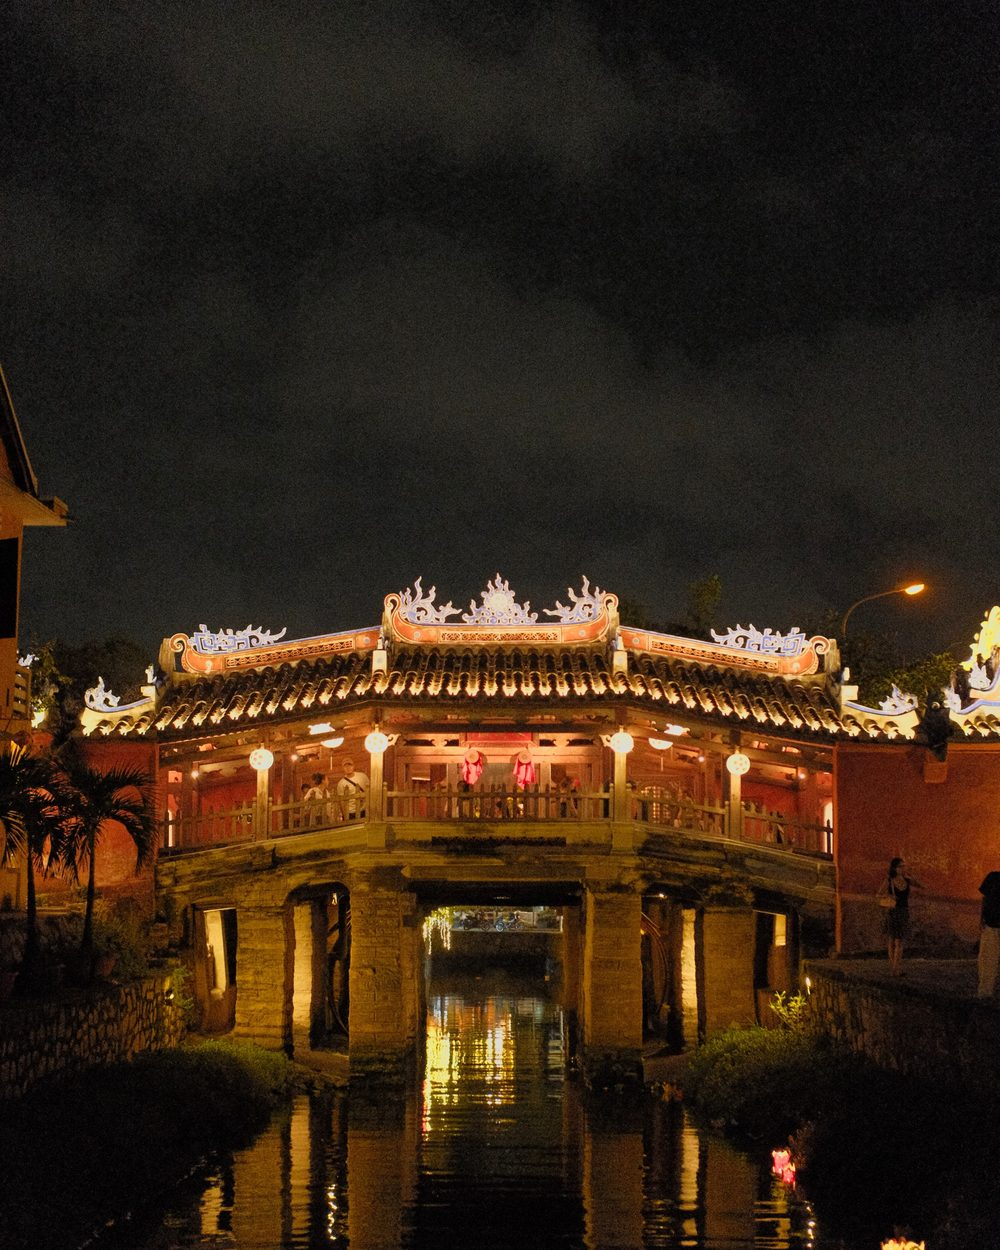
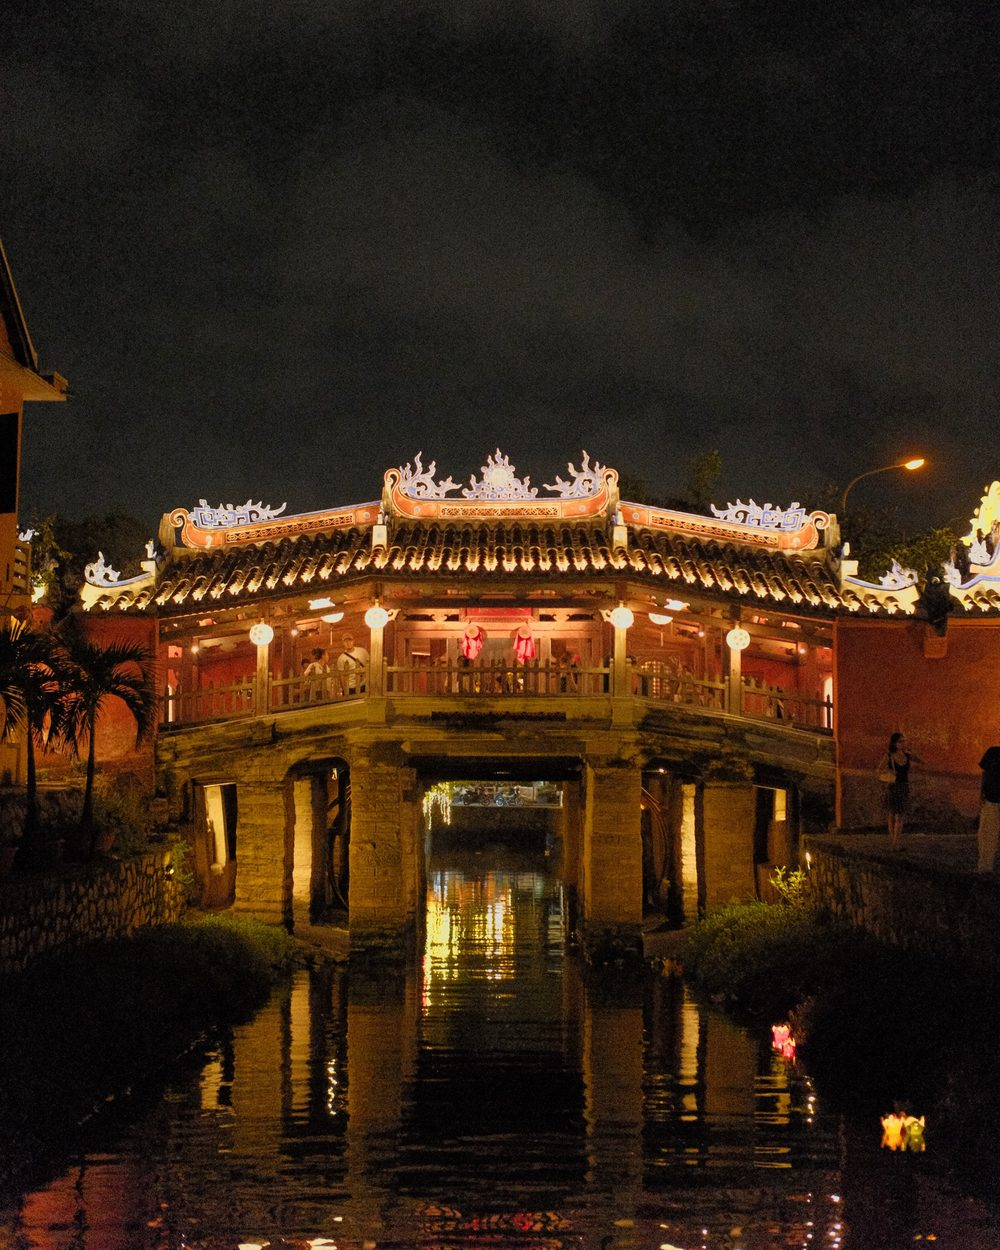
Slideshow: crop each photo around its subject

diff --git a/build.py b/build.py
@@ -27,19 +27,20 @@ INSTAGRAM = "pkpratik"
 TITLE = "Vietnam"
 SITE_URL = "https://pratik2358.github.io/vietnam-photos/"
 
-# The slideshow on the opening screen: (photo, focus). Each photo is cropped to a tall 4:5
-# frame; focus is where across the photo (0 = left edge, 1 = right edge) the crop centres.
+# The slideshow on the opening screen. Each photo is cropped to a tall 4:5 frame around its subject:
+#   (photo, x, y, zoom): x and y are where the subject sits (0-1 across and down the photo),
+#   zoom > 1 crops in tighter than the largest 4:5 frame the photo allows.
 SLIDESHOW = [
-    ("9174", 0.50),  # Hà Nội: the train street
-    ("9770", 0.52),  # Hà Nội: áo dài and umbrella, Temple of Literature
-    ("9553", 0.50),  # Ninh Bình: the valley
-    ("9389", 0.50),  # Ninh Bình: conical hat, orange life vest
-    ("0721", 0.45),  # Sa Pa: sun rays over the mountains
-    ("1027", 0.36),  # Sa Pa: the flag bearer
-    ("2302", 0.62),  # Hội An: red lanterns against the sky
-    ("2474", 0.50),  # Hội An: blue hour on the river
-    ("1830", 0.50),  # Hội An: the Covered Bridge at night
-    ("2098", 0.62),  # Đà Nẵng: hauling the net
+    ("9174", 0.53, 0.50, 1.00),  # Hà Nội: train street; the train's headlight on the centre line
+    ("9770", 0.62, 0.55, 1.10),  # Hà Nội: áo dài and umbrella, with the red pillar beside her
+    ("9553", 0.52, 0.50, 1.00),  # Ninh Bình: the river winding through the karsts
+    ("9389", 0.50, 0.50, 1.00),  # Ninh Bình: conical hat and life vest (already 4:5)
+    ("0721", 0.32, 0.50, 1.00),  # Sa Pa: the sun rays falling on the left
+    ("1027", 0.49, 0.50, 1.00),  # Sa Pa: both boys whole, the flag above them
+    ("2302", 0.60, 0.45, 1.00),  # Hội An: the two red lanterns, the old façade at the edge
+    ("2474", 0.40, 0.50, 1.00),  # Hội An: the lit house, the moon and the lantern boat
+    ("1830", 0.50, 0.62, 1.00),  # Hội An: the bridge and its reflection, less empty sky
+    ("2098", 0.57, 0.50, 1.00),  # Đà Nẵng: the fisherman in the hat, the net line behind him
 ]
 
 # The image shown when the link is shared (WhatsApp, iMessage, social media).
@@ -260,17 +261,15 @@ def slideshow(folders):
     """Crop the SLIDESHOW photos to 4:5 into img/show/; returns the slideshow markup."""
     os.makedirs(f"{OUT}/show", exist_ok=True)
     keep = set()
-    for key, focus in SLIDESHOW:
+    for key, fx, fy, zoom in SLIDESHOW:
         out = f"{OUT}/show/{key}.jpg"
         keep.add(f"{key}.jpg")
-        src = source(key, folders)
-        if os.path.exists(out) and os.path.getmtime(out) >= os.path.getmtime(src):
-            continue
-        im = ImageOps.exif_transpose(Image.open(src)).convert("RGB")
+        im = ImageOps.exif_transpose(Image.open(source(key, folders))).convert("RGB")
         w, h = im.size
-        cw, ch = (round(h * 4 / 5), h) if w / h > 4 / 5 else (w, round(w * 5 / 4))
-        left = min(max(0, round(w * focus - cw / 2)), w - cw)
-        top = (h - ch) // 2
+        cw, ch = (h * 4 / 5, h) if w / h > 4 / 5 else (w, w * 5 / 4)
+        cw, ch = round(cw / zoom), round(ch / zoom)
+        left = min(max(0, round(w * fx - cw / 2)), w - cw)
+        top = min(max(0, round(h * fy - ch / 2)), h - ch)
         im.crop((left, top, left + cw, top + ch)).resize((1000, 1250), Image.LANCZOS).save(
             out, quality=82, optimize=True, progressive=True)
     for f in os.listdir(f"{OUT}/show"):
@@ -280,7 +279,7 @@ def slideshow(folders):
     imgs = "".join(
         (f'<img src="{OUT}/show/{k}.jpg" class="on"' if i == 0 else f'<img data-src="{OUT}/show/{k}.jpg"')
         + ' alt="" width="1000" height="1250">'
-        for i, (k, _) in enumerate(SLIDESHOW))
+        for i, (k, *_) in enumerate(SLIDESHOW))
     return f'<div class="show" aria-hidden="true">{imgs}</div>'
 
 
